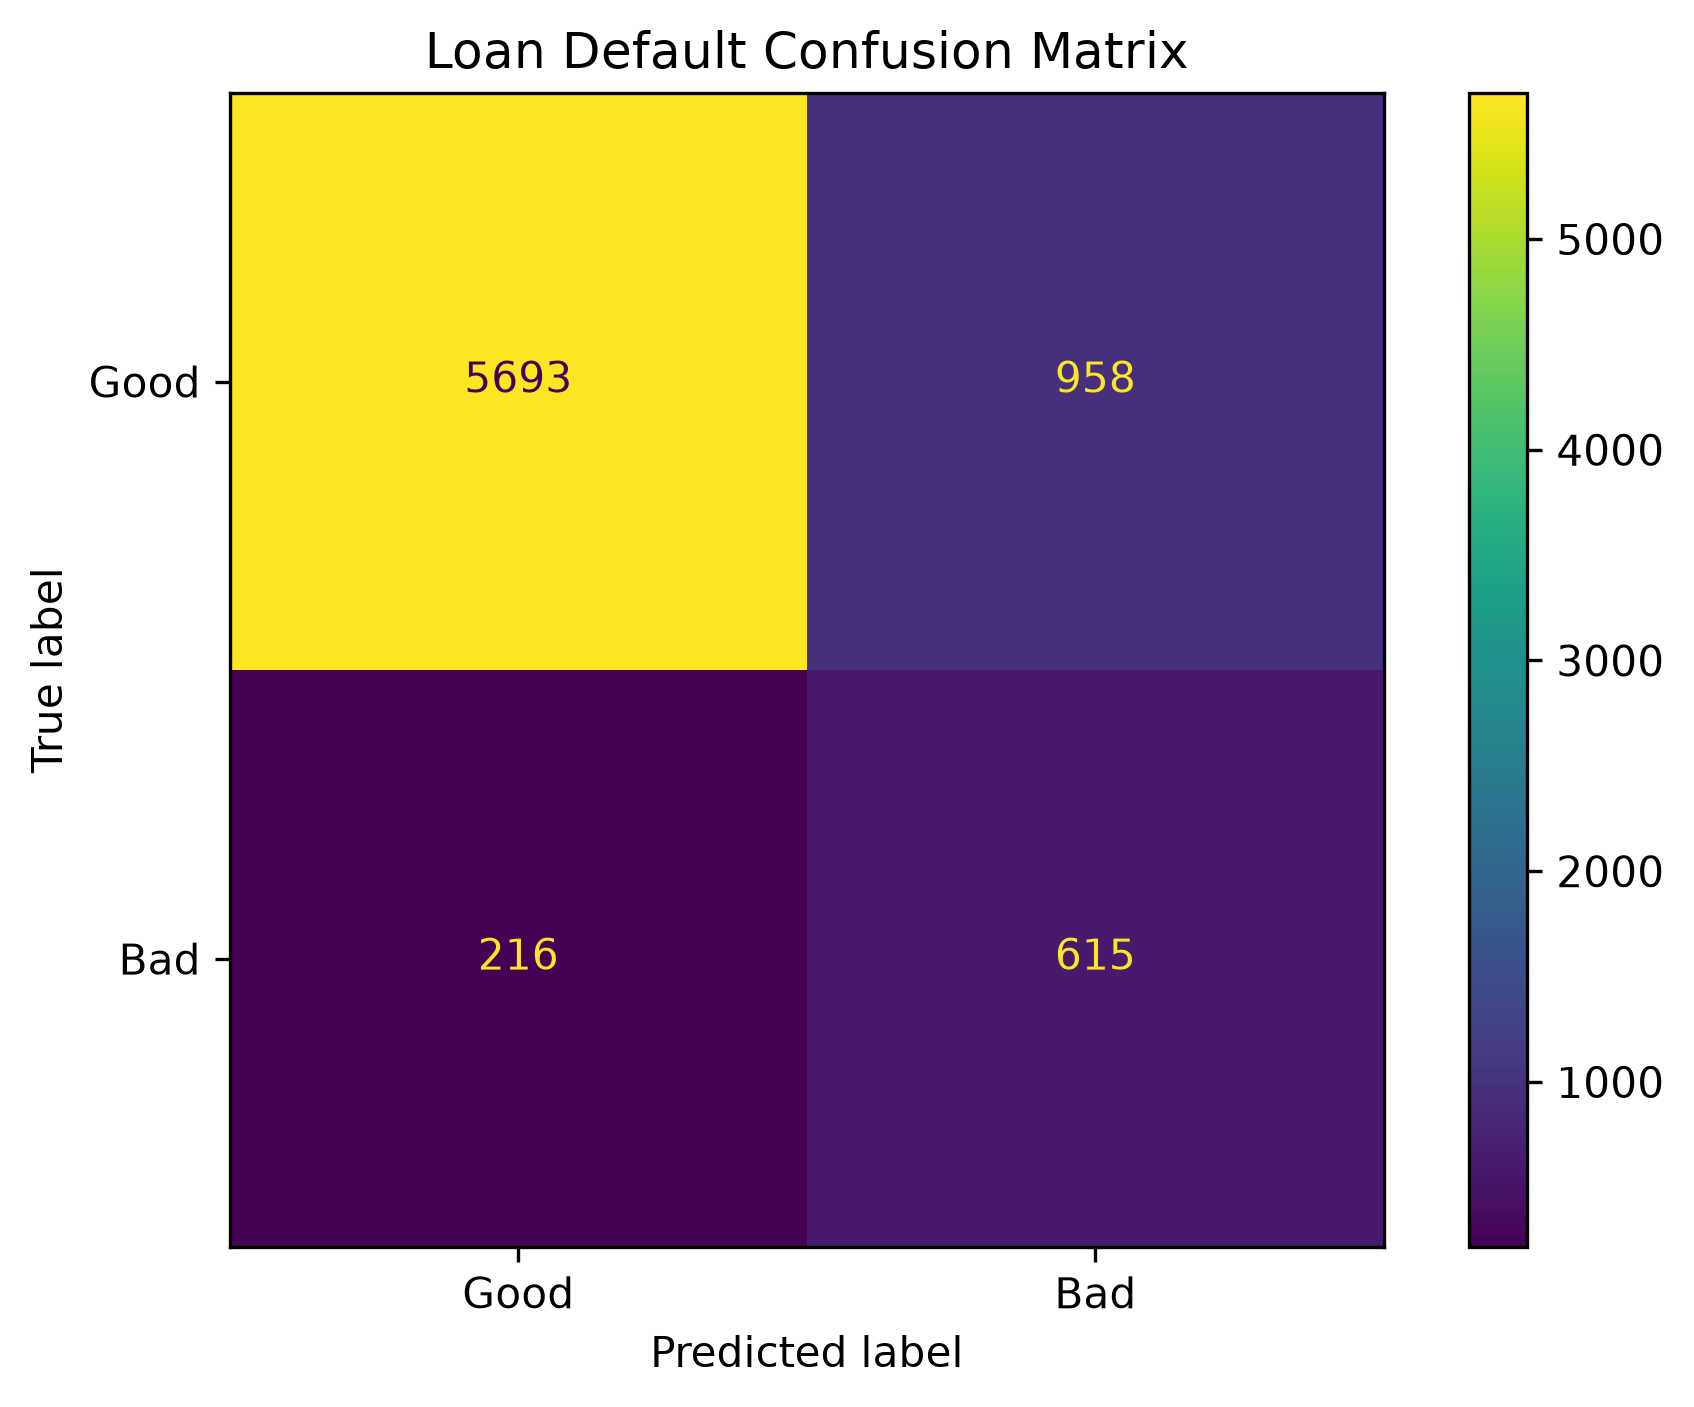
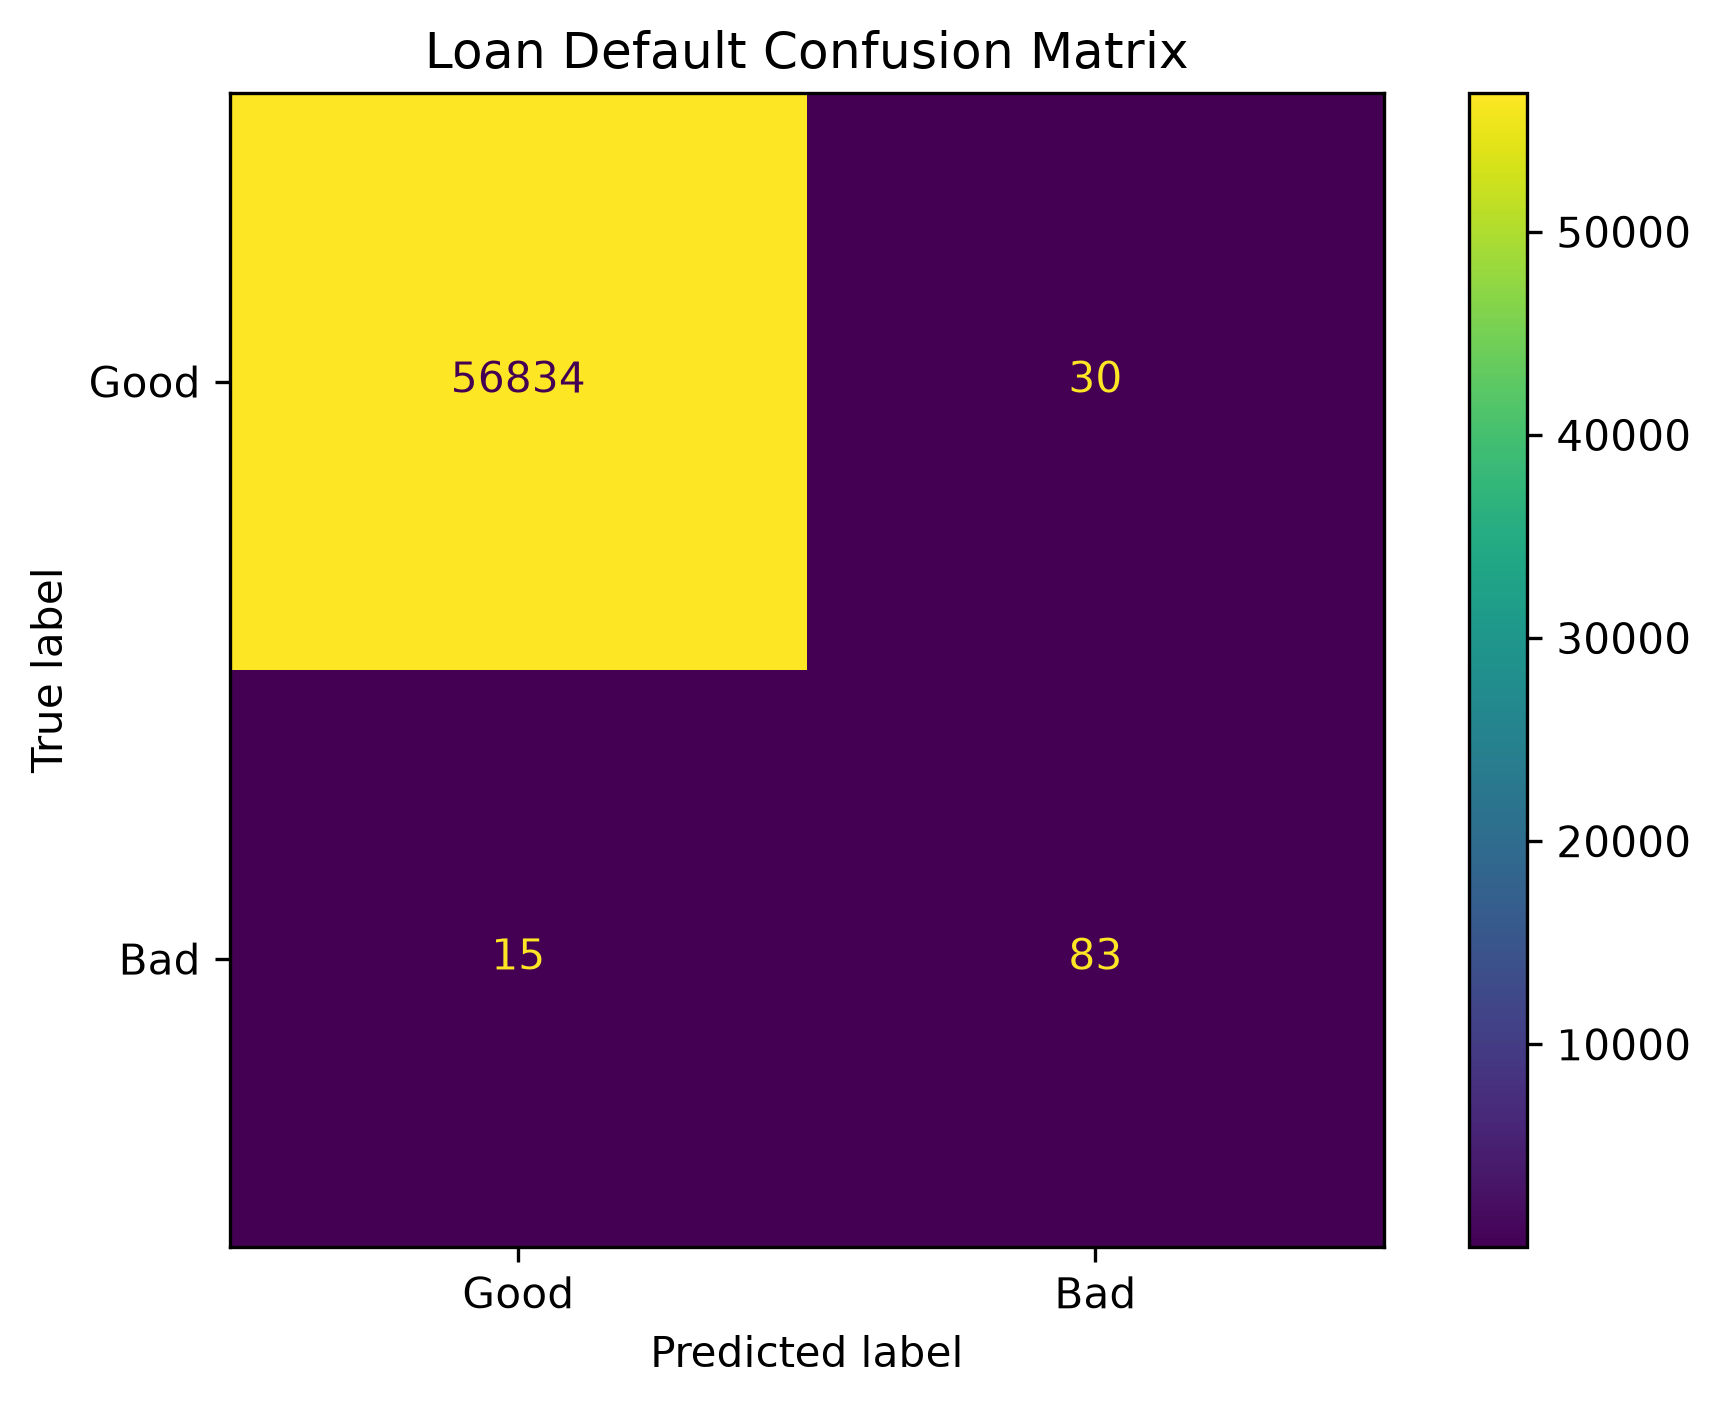
Complete DVC pipeline and MLflow experiments

diff --git a/src/prepare.py b/src/prepare.py
@@ -3,196 +3,162 @@ from pathlib import Path
 import joblib
 import pandas as pd
 import yaml
-from sklearn.compose import ColumnTransformer
-from sklearn.impute import SimpleImputer
 from sklearn.model_selection import train_test_split
-from sklearn.pipeline import Pipeline
-from sklearn.preprocessing import OneHotEncoder, StandardScaler
+from sklearn.preprocessing import StandardScaler
 
 
 RAW_DATA_PATH = Path("data/raw/credit_risk_dataset.csv")
 PROCESSED_DIR = Path("data/processed")
 PARAMS_PATH = Path("params.yaml")
 
-TARGET_COLUMN = "loan_quality"
-IDENTIFIER_COLUMNS = ["account_number"]
+TARGET_COLUMN = "Class"
 
 
 def load_parameters() -> dict:
-    """Load preprocessing parameters from params.yaml."""
-    if not PARAMS_PATH.exists():
-        raise FileNotFoundError(
-            f"Configuration file not found: {PARAMS_PATH}"
-        )
-
+    """Load preprocessing parameters."""
     with PARAMS_PATH.open("r", encoding="utf-8") as file:
-        parameters = yaml.safe_load(file)
+        parameters = yaml.safe_load(file) or {}
 
-    if "prepare" not in parameters:
-        raise KeyError(
-            "The 'prepare' section is missing from params.yaml"
-        )
-
-    return parameters["prepare"]
+    return parameters.get(
+        "prepare",
+        {
+            "test_size": 0.2,
+            "random_state": 42,
+        },
+    )
 
 
 def load_dataset() -> pd.DataFrame:
-    """Load and validate the raw dataset."""
+    """Load and validate the fraud-detection dataset."""
     if not RAW_DATA_PATH.exists():
         raise FileNotFoundError(
-            f"Raw dataset not found: {RAW_DATA_PATH}"
+            f"Dataset not found: {RAW_DATA_PATH}"
         )
 
     dataframe = pd.read_csv(RAW_DATA_PATH)
 
     if TARGET_COLUMN not in dataframe.columns:
         raise ValueError(
-            f"Target column '{TARGET_COLUMN}' was not found."
+            f"Target column '{TARGET_COLUMN}' was not found. "
+            f"Available columns: {list(dataframe.columns)}"
         )
 
     return dataframe
 
 
-def main() -> None:
-    """Prepare the raw dataset for model training and evaluation."""
-    parameters = load_parameters()
-    dataframe = load_dataset()
+def prepare_features(
+    dataframe: pd.DataFrame,
+    parameters: dict,
+) -> tuple[pd.DataFrame, pd.DataFrame, pd.Series, pd.Series, StandardScaler]:
+    """Split and standardize the dataset."""
+    X = dataframe.drop(columns=[TARGET_COLUMN]).copy()
 
-    original_rows = len(dataframe)
-
-    # Remove duplicate rows.
-    dataframe = dataframe.drop_duplicates().copy()
-
-    # Remove identifier columns because they do not represent
-    # useful predictive information.
-    columns_to_remove = [
-        column
-        for column in IDENTIFIER_COLUMNS
-        if column in dataframe.columns
-    ]
-
-    dataframe = dataframe.drop(columns=columns_to_remove)
-
-    # Separate features and target.
-    X = dataframe.drop(columns=[TARGET_COLUMN])
-    y = dataframe[TARGET_COLUMN]
-
-    numerical_features = X.select_dtypes(
-        include=["number"]
-    ).columns.tolist()
-
-    categorical_features = X.select_dtypes(
-        exclude=["number"]
-    ).columns.tolist()
-
-    print(f"Numerical features: {numerical_features}")
-    print(f"Categorical features: {categorical_features}")
-
-    numerical_pipeline = Pipeline(
-        steps=[
-            (
-                "imputer",
-                SimpleImputer(strategy="median"),
-            ),
-            (
-                "scaler",
-                StandardScaler(),
-            ),
-        ]
+    y = dataframe[TARGET_COLUMN].map(
+        {
+            0: "Good",
+            1: "Bad",
+        }
     )
 
-    categorical_pipeline = Pipeline(
-        steps=[
-            (
-                "imputer",
-                SimpleImputer(strategy="most_frequent"),
-            ),
-            (
-                "encoder",
-                OneHotEncoder(
-                    handle_unknown="ignore",
-                    sparse_output=False,
-                ),
-            ),
-        ]
-    )
-
-    preprocessor = ColumnTransformer(
-        transformers=[
-            (
-                "numerical",
-                numerical_pipeline,
-                numerical_features,
-            ),
-            (
-                "categorical",
-                categorical_pipeline,
-                categorical_features,
-            ),
-        ],
-        verbose_feature_names_out=False,
-    )
+    if y.isna().any():
+        raise ValueError(
+            "The Class column must contain only 0 and 1."
+        )
 
     X_train, X_test, y_train, y_test = train_test_split(
         X,
         y,
         test_size=float(parameters.get("test_size", 0.2)),
-        random_state=int(
-            parameters.get("random_state", 42)
-        ),
+        random_state=int(parameters.get("random_state", 42)),
         stratify=y,
     )
 
-    X_train_processed = preprocessor.fit_transform(X_train)
-    X_test_processed = preprocessor.transform(X_test)
+    scaler = StandardScaler()
 
-    feature_names = preprocessor.get_feature_names_out()
-
-    X_train_dataframe = pd.DataFrame(
-        X_train_processed,
-        columns=feature_names,
+    X_train_scaled = pd.DataFrame(
+        scaler.fit_transform(X_train),
+        columns=X_train.columns,
+        index=X_train.index,
     )
 
-    X_test_dataframe = pd.DataFrame(
-        X_test_processed,
-        columns=feature_names,
+    X_test_scaled = pd.DataFrame(
+        scaler.transform(X_test),
+        columns=X_test.columns,
+        index=X_test.index,
     )
 
+    return (
+        X_train_scaled,
+        X_test_scaled,
+        y_train,
+        y_test,
+        scaler,
+    )
+
+
+def save_outputs(
+    X_train: pd.DataFrame,
+    X_test: pd.DataFrame,
+    y_train: pd.Series,
+    y_test: pd.Series,
+    scaler: StandardScaler,
+) -> None:
+    """Save processed datasets and fitted scaler."""
     PROCESSED_DIR.mkdir(parents=True, exist_ok=True)
 
-    X_train_dataframe.to_csv(
+    X_train.to_csv(
         PROCESSED_DIR / "X_train.csv",
         index=False,
     )
-
-    X_test_dataframe.to_csv(
+    X_test.to_csv(
         PROCESSED_DIR / "X_test.csv",
         index=False,
     )
-
-    y_train.reset_index(drop=True).to_csv(
+    y_train.rename("target").to_csv(
         PROCESSED_DIR / "y_train.csv",
         index=False,
     )
 
-    y_test.reset_index(drop=True).to_csv(
+    y_test.rename("target").to_csv(
         PROCESSED_DIR / "y_test.csv",
         index=False,
     )
 
     joblib.dump(
-        preprocessor,
-        PROCESSED_DIR / "preprocessor.joblib",
+        scaler,
+        PROCESSED_DIR / "preprocessor.pkl",
     )
 
-    removed_duplicates = original_rows - len(dataframe)
 
-    print("\nData preparation completed successfully.")
-    print(f"Duplicate rows removed: {removed_duplicates}")
-    print(f"Training rows: {len(X_train_dataframe)}")
-    print(f"Testing rows: {len(X_test_dataframe)}")
-    print(f"Processed features: {len(feature_names)}")
-    print(f"Target classes: {sorted(y.unique().tolist())}")
+def main() -> None:
+    parameters = load_parameters()
+    dataframe = load_dataset()
+
+    (
+        X_train,
+        X_test,
+        y_train,
+        y_test,
+        scaler,
+    ) = prepare_features(
+        dataframe,
+        parameters,
+    )
+
+    save_outputs(
+        X_train,
+        X_test,
+        y_train,
+        y_test,
+        scaler,
+    )
+
+    print("Data preparation completed successfully.")
+    print(f"Dataset shape: {dataframe.shape}")
+    print(f"Training rows: {len(X_train)}")
+    print(f"Testing rows: {len(X_test)}")
+    print("\nTarget distribution:")
+    print(dataframe[TARGET_COLUMN].value_counts())
 
 
 if __name__ == "__main__":
